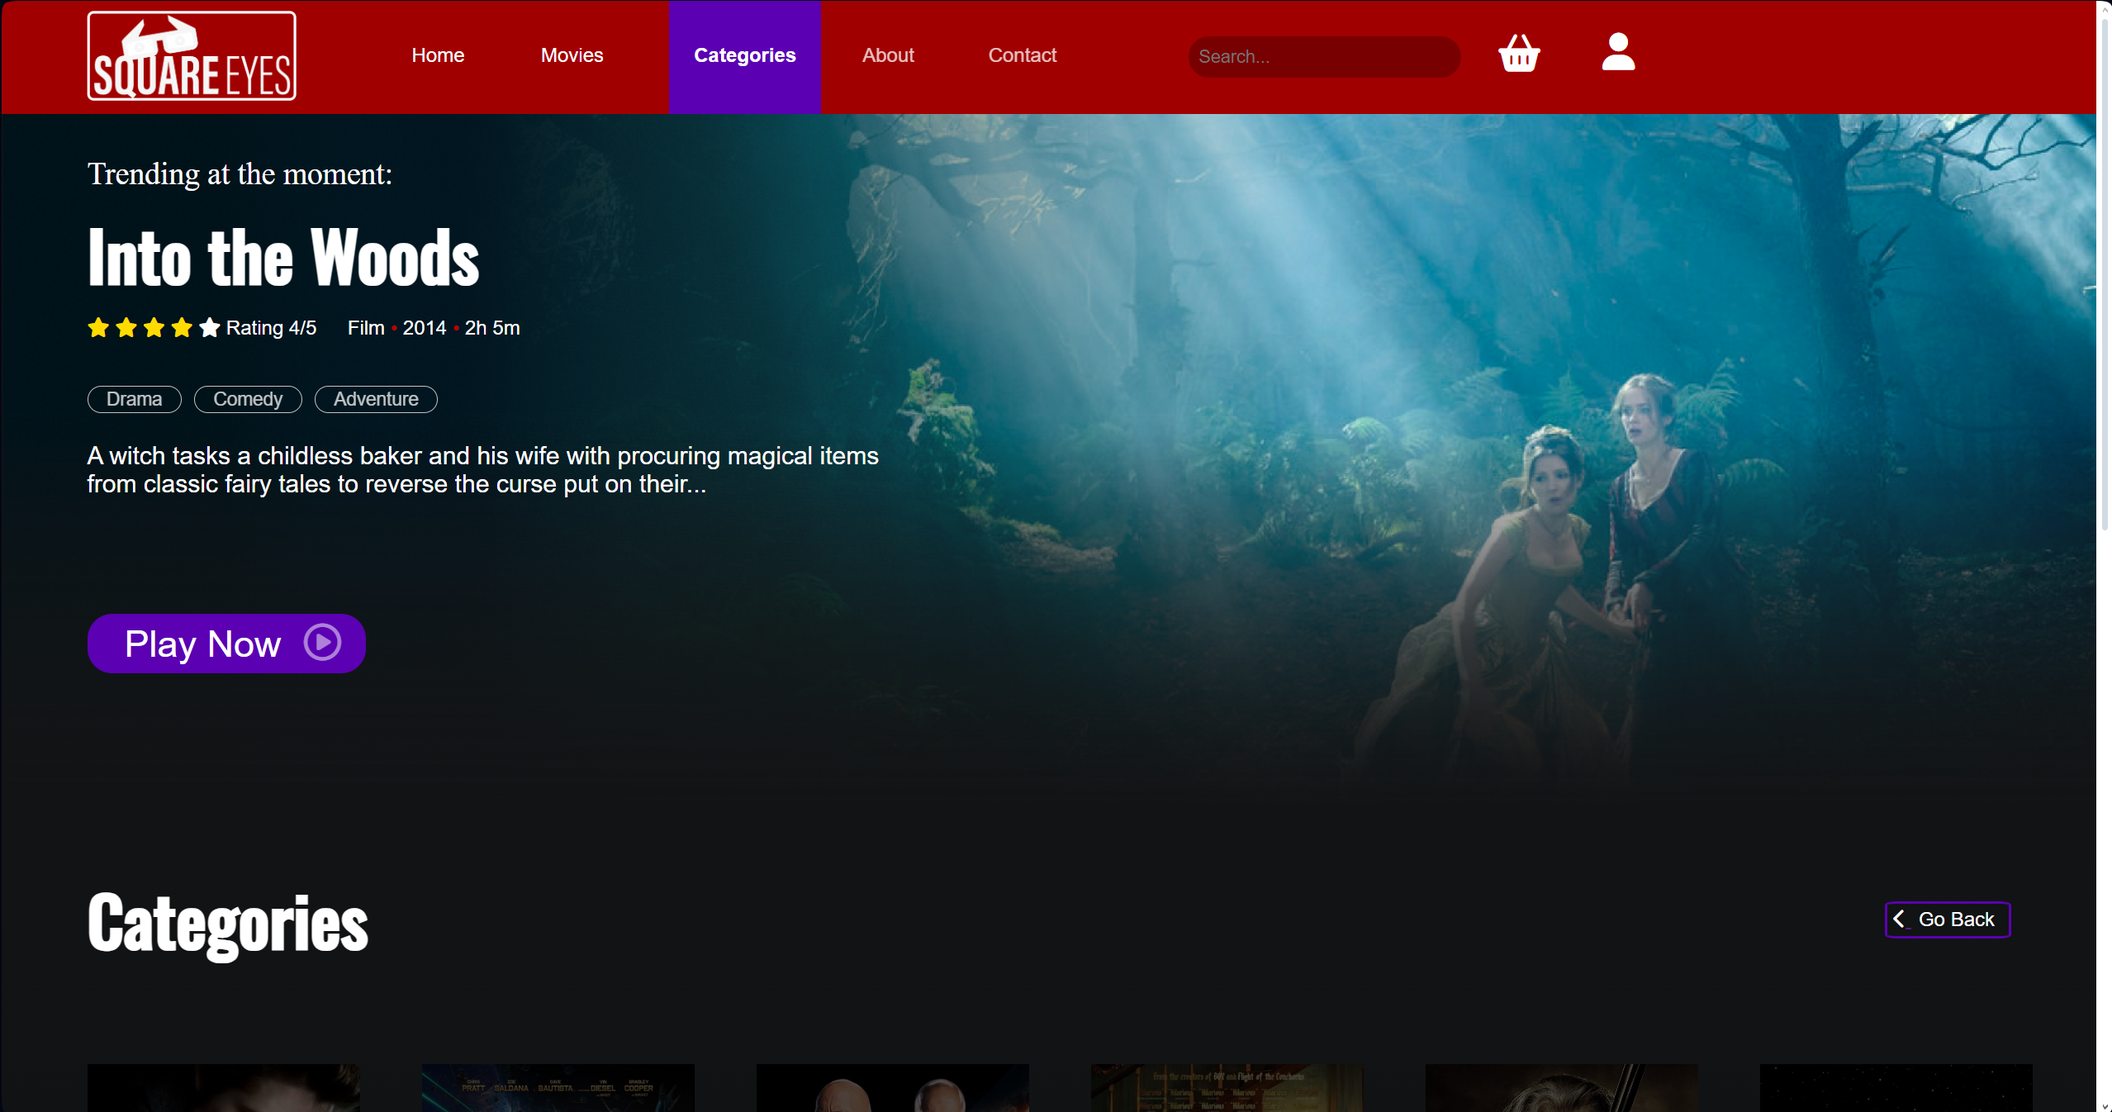
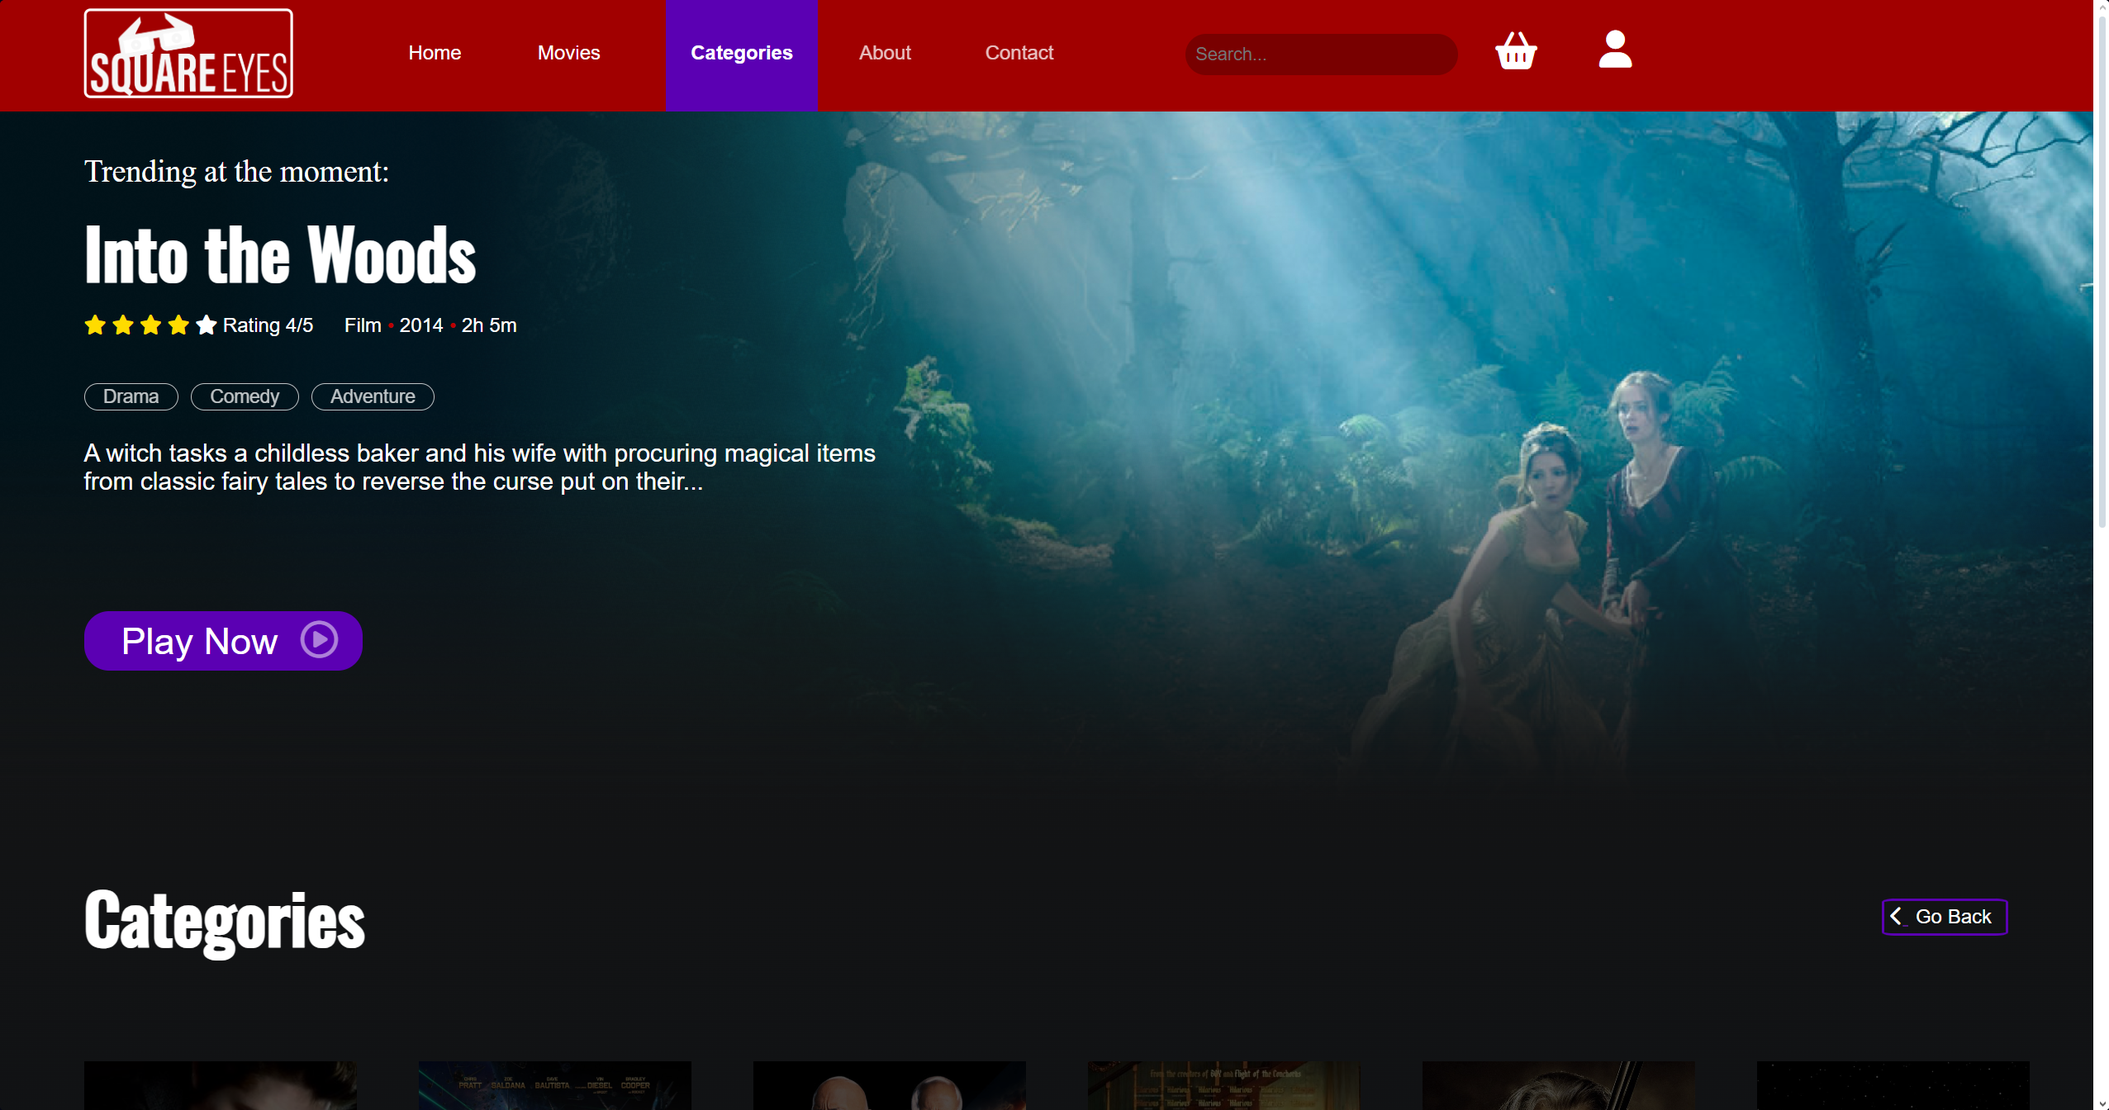
added photos

diff --git a/index.html b/index.html
@@ -128,27 +128,69 @@
     
                         <div class="slideshow-images">
                             <div class="slideshow-image">
-                                <img src="/Media/crazyplantlady/crazyplantladyskjermbilde3.png" alt="">
+                                <img src="/Media/crazyplantlady/homepage.png" alt="">
                                 <div class="desc">
-                                    <p>HomePage </p>
+                                    <p>HomePage</p>
                                 </div>
                             </div>
                             <div class="slideshow-image">
-                                <img src="/Media/crazyplantlady/crazyplantladyskjermbilde1.png" alt="">
+                                <img src="/Media/crazyplantlady/homepagep2.png" alt="">
                                 <div class="desc">
-                                    <p>HomePage - Scrolled</p>
+                                    <p>HomePage</p>
                                 </div>
                             </div>
                             <div class="slideshow-image">
-                                <img src="/Media/crazyplantlady/crazyplantladyskjermbilde2.png" alt="">
+                                <img src="/Media/crazyplantlady/homepagep3.png" alt="">
+                                <div class="desc">
+                                    <p>HomePage</p>
+                                </div>
+                            </div>
+                            <div class="slideshow-image">
+                                <img src="/Media/crazyplantlady/homepagep4.png" alt="">
+                                <div class="desc">
+                                    <p>HomePage</p>
+                                </div>
+                            </div>
+                            <div class="slideshow-image">
+                                <img src="/Media/crazyplantlady/allpostsp1.png" alt="">
                                 <div class="desc">
                                     <p>All Bloggs</p>
                                 </div>
                             </div>
                             <div class="slideshow-image">
-                                <img src="/Media/crazyplantlady/crazyplantlady4.png" alt="">
+                                <img src="/Media/crazyplantlady/allpostsp2.png" alt="">
+                                <div class="desc">
+                                    <p>All Bloggs</p>
+                                </div>
+                            </div>
+                            <div class="slideshow-image">
+                                <img src="/Media/crazyplantlady/adminlogin.png" alt="">
                                 <div class="desc">
                                     <p>Admin Login</p>
+                                </div>
+                            </div>
+                            <div class="slideshow-image">
+                                <img src="/Media/crazyplantlady/admin-main.png" alt="">
+                                <div class="desc">
+                                    <p>Admin Mainpage</p>
+                                </div>
+                            </div>
+                            <div class="slideshow-image">
+                                <img src="/Media/crazyplantlady/admin-editp1.png" alt="">
+                                <div class="desc">
+                                    <p>Admin Edit Post</p>
+                                </div>
+                            </div>
+                            <div class="slideshow-image">
+                                <img src="/Media/crazyplantlady/admin-editp2.png" alt="">
+                                <div class="desc">
+                                    <p>Admin Edit Post</p>
+                                </div>
+                            </div>
+                            <div class="slideshow-image">
+                                <img src="/Media/crazyplantlady/admin-create.png" alt="">
+                                <div class="desc">
+                                    <p>Admin Create</p>
                                 </div>
                             </div>
                         </div>
@@ -182,25 +224,151 @@
                             <div class="slideshow-image">
                                 <img src="/Media/community/homepagep1.png" alt="">
                                 <div class="desc">
-                                    <p>HomePage Part 1</p>
+                                    <p>Homepage</p>
                                 </div>
                             </div>
                             <div class="slideshow-image">
                                 <img src="/Media/community/homepagep2.png" alt="">
                                 <div class="desc">
-                                    <p>HomePage Part 2</p>
+                                    <p>Homepage</p>
                                 </div>
                             </div>
                             <div class="slideshow-image">
                                 <img src="/Media/community/homepagep3.png" alt="">
                                 <div class="desc">
-                                    <p>HomePage Part 3</p>
+                                    <p>Homepage</p>
                                 </div>
                             </div>
                             <div class="slideshow-image">
-                                <img src="/Media/community/csmexhibitions.png" alt="">
+                                <img src="/Media/community/exhibitions.png" alt="">
                                 <div class="desc">
                                     <p>Exhibitions</p>
+                                </div>
+                            </div>
+                            <div class="slideshow-image">
+                                <img src="/Media/community/exhibitions2.png" alt="">
+                                <div class="desc">
+                                    <p>Exhibitions</p>
+                                </div>
+                            </div>
+                            <div class="slideshow-image">
+                                <img src="/Media/community/exhibitions3.png" alt="">
+                                <div class="desc">
+                                    <p>Exhibitions</p>
+                                </div>
+                            </div>
+                            <div class="slideshow-image">
+                                <img src="/Media/community/biology.png" alt="">
+                                <div class="desc">
+                                    <p>Biology & Medicine</p>
+                                </div>
+                            </div>
+                            <div class="slideshow-image">
+                                <img src="/Media/community/biology2.png" alt="">
+                                <div class="desc">
+                                    <p>Biology & Medicine</p>
+                                </div>
+                            </div>
+                            <div class="slideshow-image">
+                                <img src="/Media/community/biology3.png" alt="">
+                                <div class="desc">
+                                    <p>Biology & Medicine</p>
+                                </div>
+                            </div>
+                            <div class="slideshow-image">
+                                <img src="/Media/community/explore.png" alt="">
+                                <div class="desc">
+                                    <p>Explore</p>
+                                </div>
+                            </div>
+                            <div class="slideshow-image">
+                                <img src="/Media/community/explore2.png" alt="">
+                                <div class="desc">
+                                    <p>Explore</p>
+                                </div>
+                            </div>
+                            <div class="slideshow-image">
+                                <img src="/Media/community/explore3.png" alt="">
+                                <div class="desc">
+                                    <p>Explore</p>
+                                </div>
+                            </div>
+                            <div class="slideshow-image">
+                                <img src="/Media/community/explore4.png" alt="">
+                                <div class="desc">
+                                    <p>Explore</p>
+                                </div>
+                            </div>
+                            <div class="slideshow-image">
+                                <img src="/Media/community/explore5.png" alt="">
+                                <div class="desc">
+                                    <p>Explore</p>
+                                </div>
+                            </div>
+                            <div class="slideshow-image">
+                                <img src="/Media/community/kids.png" alt="">
+                                <div class="desc">
+                                    <p>Kids</p>
+                                </div>
+                            </div>
+                            <div class="slideshow-image">
+                                <img src="/Media/community/kids2.png" alt="">
+                                <div class="desc">
+                                    <p>Kids</p>
+                                </div>
+                            </div>
+                            <div class="slideshow-image">
+                                <img src="/Media/community/kids3.png" alt="">
+                                <div class="desc">
+                                    <p>Kids</p>
+                                </div>
+                            </div>
+                            <div class="slideshow-image">
+                                <img src="/Media/community/kids4.png" alt="">
+                                <div class="desc">
+                                    <p>Kids</p>
+                                </div>
+                            </div>
+                            <div class="slideshow-image">
+                                <img src="/Media/community/about.png" alt="">
+                                <div class="desc">
+                                    <p>About Us</p>
+                                </div>
+                            </div>
+                            <div class="slideshow-image">
+                                <img src="/Media/community/about2.png" alt="">
+                                <div class="desc">
+                                    <p>About Us</p>
+                                </div>
+                            </div>
+                            <div class="slideshow-image">
+                                <img src="/Media/community/about3.png" alt="">
+                                <div class="desc">
+                                    <p>About Us</p>
+                                </div>
+                            </div>
+                            <div class="slideshow-image">
+                                <img src="/Media/community/about4.png" alt="">
+                                <div class="desc">
+                                    <p>About Us</p>
+                                </div>
+                            </div>
+                            <div class="slideshow-image">
+                                <img src="/Media/community/contact.png" alt="">
+                                <div class="desc">
+                                    <p>Contact</p>
+                                </div>
+                            </div>
+                            <div class="slideshow-image">
+                                <img src="/Media/community/contact2.png" alt="">
+                                <div class="desc">
+                                    <p>Contact</p>
+                                </div>
+                            </div>
+                            <div class="slideshow-image">
+                                <img src="/Media/community/contact3.png" alt="">
+                                <div class="desc">
+                                    <p>Contact</p>
                                 </div>
                             </div>
                         </div>
@@ -276,13 +444,49 @@
                             <div class="slideshow-image">
                                 <img src="/Media/square/homepage.png" alt="">
                                 <div class="desc">
-                                    <p>HomePage </p>
+                                    <p>HomePage</p>
                                 </div>
                             </div>
                             <div class="slideshow-image">
-                                <img src="/Media/square/homepage-scroll.png" alt="">
+                                <img src="/Media/square/homepage2.png" alt="">
                                 <div class="desc">
-                                    <p>HomePage - Scrolled</p>
+                                    <p>HomePage</p>
+                                </div>
+                            </div>
+                            <div class="slideshow-image">
+                                <img src="/Media/square/homepage3.png" alt="">
+                                <div class="desc">
+                                    <p>HomePage</p>
+                                </div>
+                            </div>
+                            <div class="slideshow-image">
+                                <img src="/Media/square/homepage4.png" alt="">
+                                <div class="desc">
+                                    <p>HomePage</p>
+                                </div>
+                            </div>
+                            <div class="slideshow-image">
+                                <img src="/Media/square/homepage5.png" alt="">
+                                <div class="desc">
+                                    <p>HomePage</p>
+                                </div>
+                            </div>
+                            <div class="slideshow-image">
+                                <img src="/Media/square/homepage6.png" alt="">
+                                <div class="desc">
+                                    <p>HomePage</p>
+                                </div>
+                            </div>
+                            <div class="slideshow-image">
+                                <img src="/Media/square/homepage7.png" alt="">
+                                <div class="desc">
+                                    <p>HomePage</p>
+                                </div>
+                            </div>
+                            <div class="slideshow-image">
+                                <img src="/Media/square/homepage8.png" alt="">
+                                <div class="desc">
+                                    <p>HomePage</p>
                                 </div>
                             </div>
                             <div class="slideshow-image">
@@ -292,21 +496,75 @@
                                 </div>
                             </div>
                             <div class="slideshow-image">
-                                <img src="/Media/square/movies.png" alt="">
+                                <img src="/Media/square/categories2.png" alt="">
+                                <div class="desc">
+                                    <p>Categories</p>
+                                </div>
+                            </div>
+                            <div class="slideshow-image">
+                                <img src="/Media/square/categories3.png" alt="">
+                                <div class="desc">
+                                    <p>Categories</p>
+                                </div>
+                            </div>
+                            <div class="slideshow-image">
+                                <img src="/Media/square/allmovies.png" alt="">
                                 <div class="desc">
                                     <p>All Movies</p>
                                 </div>
                             </div>
                             <div class="slideshow-image">
-                                <img src="/Media/square/movie-detail.png" alt="">
+                                <img src="/Media/square/allmovies2.png" alt="">
+                                <div class="desc">
+                                    <p>All Movies</p>
+                                </div>
+                            </div>
+                            <div class="slideshow-image">
+                                <img src="/Media/square/allmovies3.png" alt="">
+                                <div class="desc">
+                                    <p>All Movies</p>
+                                </div>
+                            </div>
+                            <div class="slideshow-image">
+                                <img src="/Media/square/movie.png" alt="">
                                 <div class="desc">
                                     <p>Movie Detail</p>
                                 </div>
                             </div>
                             <div class="slideshow-image">
-                                <img src="/Media/square/movie-detail-scroll.png" alt="">
+                                <img src="/Media/square/movie2.png" alt="">
                                 <div class="desc">
-                                    <p>Movie Detail - Scrolled</p>
+                                    <p>Movie Detail</p>
+                                </div>
+                            </div>
+                            <div class="slideshow-image">
+                                <img src="/Media/square/movie3.png" alt="">
+                                <div class="desc">
+                                    <p>Movie Detail</p>
+                                </div>
+                            </div>
+                            <div class="slideshow-image">
+                                <img src="/Media/square/cart.png" alt="">
+                                <div class="desc">
+                                    <p>Checkout</p>
+                                </div>
+                            </div>
+                            <div class="slideshow-image">
+                                <img src="/Media/square/checkout.png" alt="">
+                                <div class="desc">
+                                    <p>Checkout Succsess</p>
+                                </div>
+                            </div>
+                            <div class="slideshow-image">
+                                <img src="/Media/square/about.png" alt="">
+                                <div class="desc">
+                                    <p>About Us</p>
+                                </div>
+                            </div>
+                            <div class="slideshow-image">
+                                <img src="/Media/square/contact.png" alt="">
+                                <div class="desc">
+                                    <p>Contact</p>
                                 </div>
                             </div>
                         </div>

diff --git a/CSS/index.css b/CSS/index.css
@@ -670,6 +670,8 @@ main.blur {
         }
 
         .web-content {
+            margin-left: 7%;
+            margin-right: 7%;
             .websites {
                 .slideshow-elements {
 
